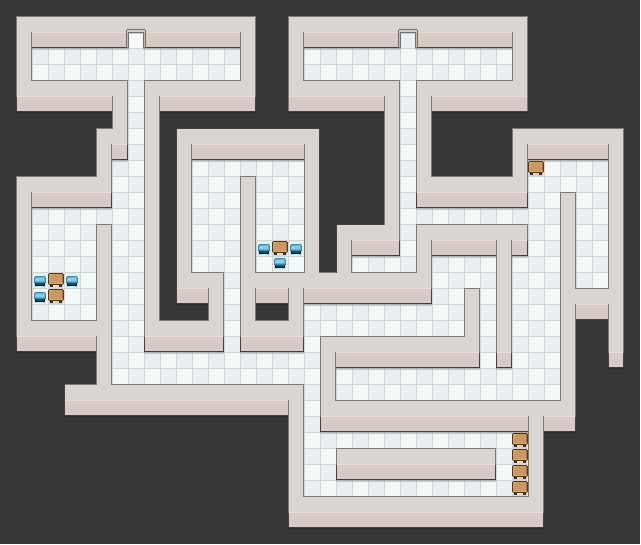
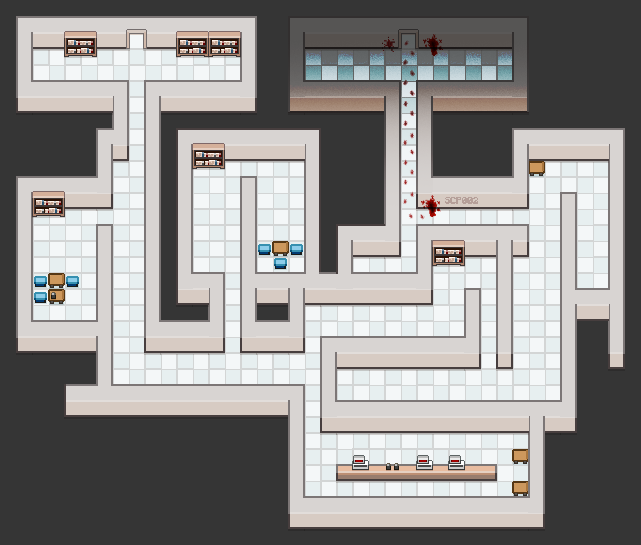
save

diff --git a/utilsGiantWalls.js b/utilsGiantWalls.js
@@ -178,17 +178,20 @@ const utilsGiantWalls = {
     [utils.asGridCoord(30, 31)]: true,
     [utils.asGridCoord(31, 31)]: true,
     [utils.asGridCoord(32, 31)]: true,
-    [utils.asGridCoord(21, 28)]: true, // Col Room col top
-    [utils.asGridCoord(22, 28)]: true,
-    [utils.asGridCoord(23, 28)]: true,
-    [utils.asGridCoord(24, 28)]: true,
-    [utils.asGridCoord(25, 28)]: true,
-    [utils.asGridCoord(26, 28)]: true,
-    [utils.asGridCoord(27, 28)]: true,
-    [utils.asGridCoord(28, 28)]: true,
-    [utils.asGridCoord(29, 28)]: true,
-    [utils.asGridCoord(30, 28)]: true,
-    [utils.asGridCoord(21, 29)]: true, // Col Room col bottom
+    // Col Room col top
+    // [utils.asGridCoord(21, 28)]: true,
+    // [utils.asGridCoord(22, 28)]: true,
+    // [utils.asGridCoord(23, 28)]: true,
+    // [utils.asGridCoord(24, 28)]: true,
+    // [utils.asGridCoord(25, 28)]: true,
+    // [utils.asGridCoord(26, 28)]: true,
+    // [utils.asGridCoord(27, 28)]: true,
+    // [utils.asGridCoord(28, 28)]: true,
+    // [utils.asGridCoord(29, 28)]: true,
+    // [utils.asGridCoord(30, 28)]: true,
+
+    // Col Room col bottom
+    [utils.asGridCoord(21, 29)]: true,
     [utils.asGridCoord(22, 29)]: true,
     [utils.asGridCoord(23, 29)]: true,
     [utils.asGridCoord(24, 29)]: true,
@@ -362,5 +365,11 @@ const utilsGiantWalls = {
     [utils.asGridCoord(18, 4)]: true,
     [utils.asGridCoord(32, 3)]: true, // Kill Room Right
     [utils.asGridCoord(32, 4)]: true,
+    [utils.asGridCoord(3, 17)]: true, // Furniture, fix later to class
+    [utils.asGridCoord(3, 18)]: true,
+    [utils.asGridCoord(17, 15)]: true,
+    [utils.asGridCoord(32, 28)]: true,
+    [utils.asGridCoord(32, 30)]: true,
+    [utils.asGridCoord(33, 10)]: true,
   },
 };

diff --git a/OverworldMap.js b/OverworldMap.js
@@ -221,12 +221,12 @@ window.OverworldMaps = {
   },
   SCP1: {
     lowerSrc: "/images/maps/scp1.png",
-    upperSrc: "/images/maps/DemoUpper.png",
+    upperSrc: "/images/maps/scpTop1.png",
     gameObjects: {
       hero: new Person({
         isPlayerControlled: true,
         x: utils.withGrid(25),
-        y: utils.withGrid(3),
+        y: utils.withGrid(7),
       }),
       npcA: new Person({
         x: utils.withGrid(3),
